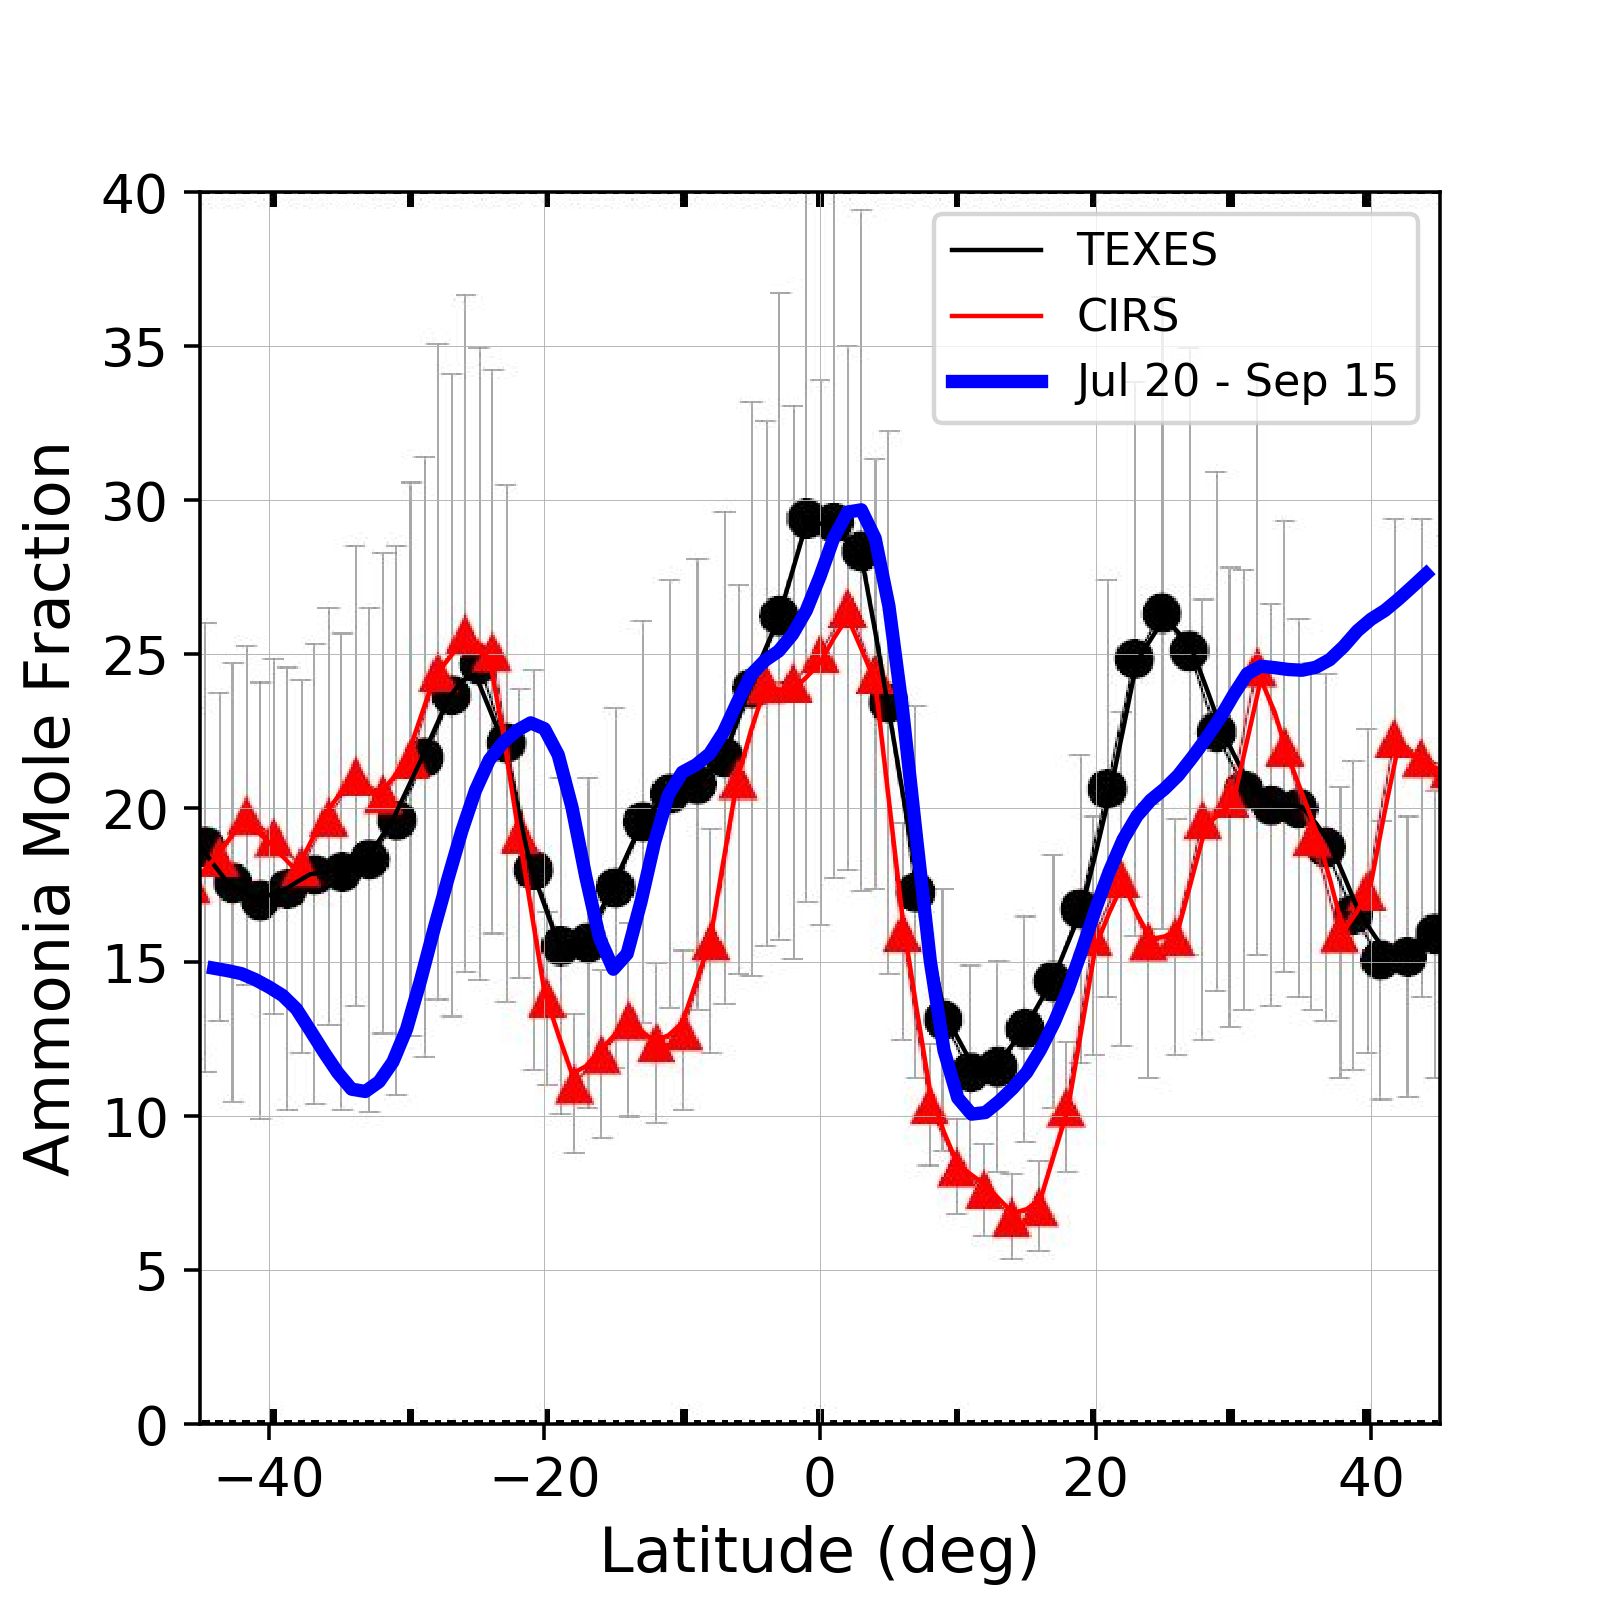
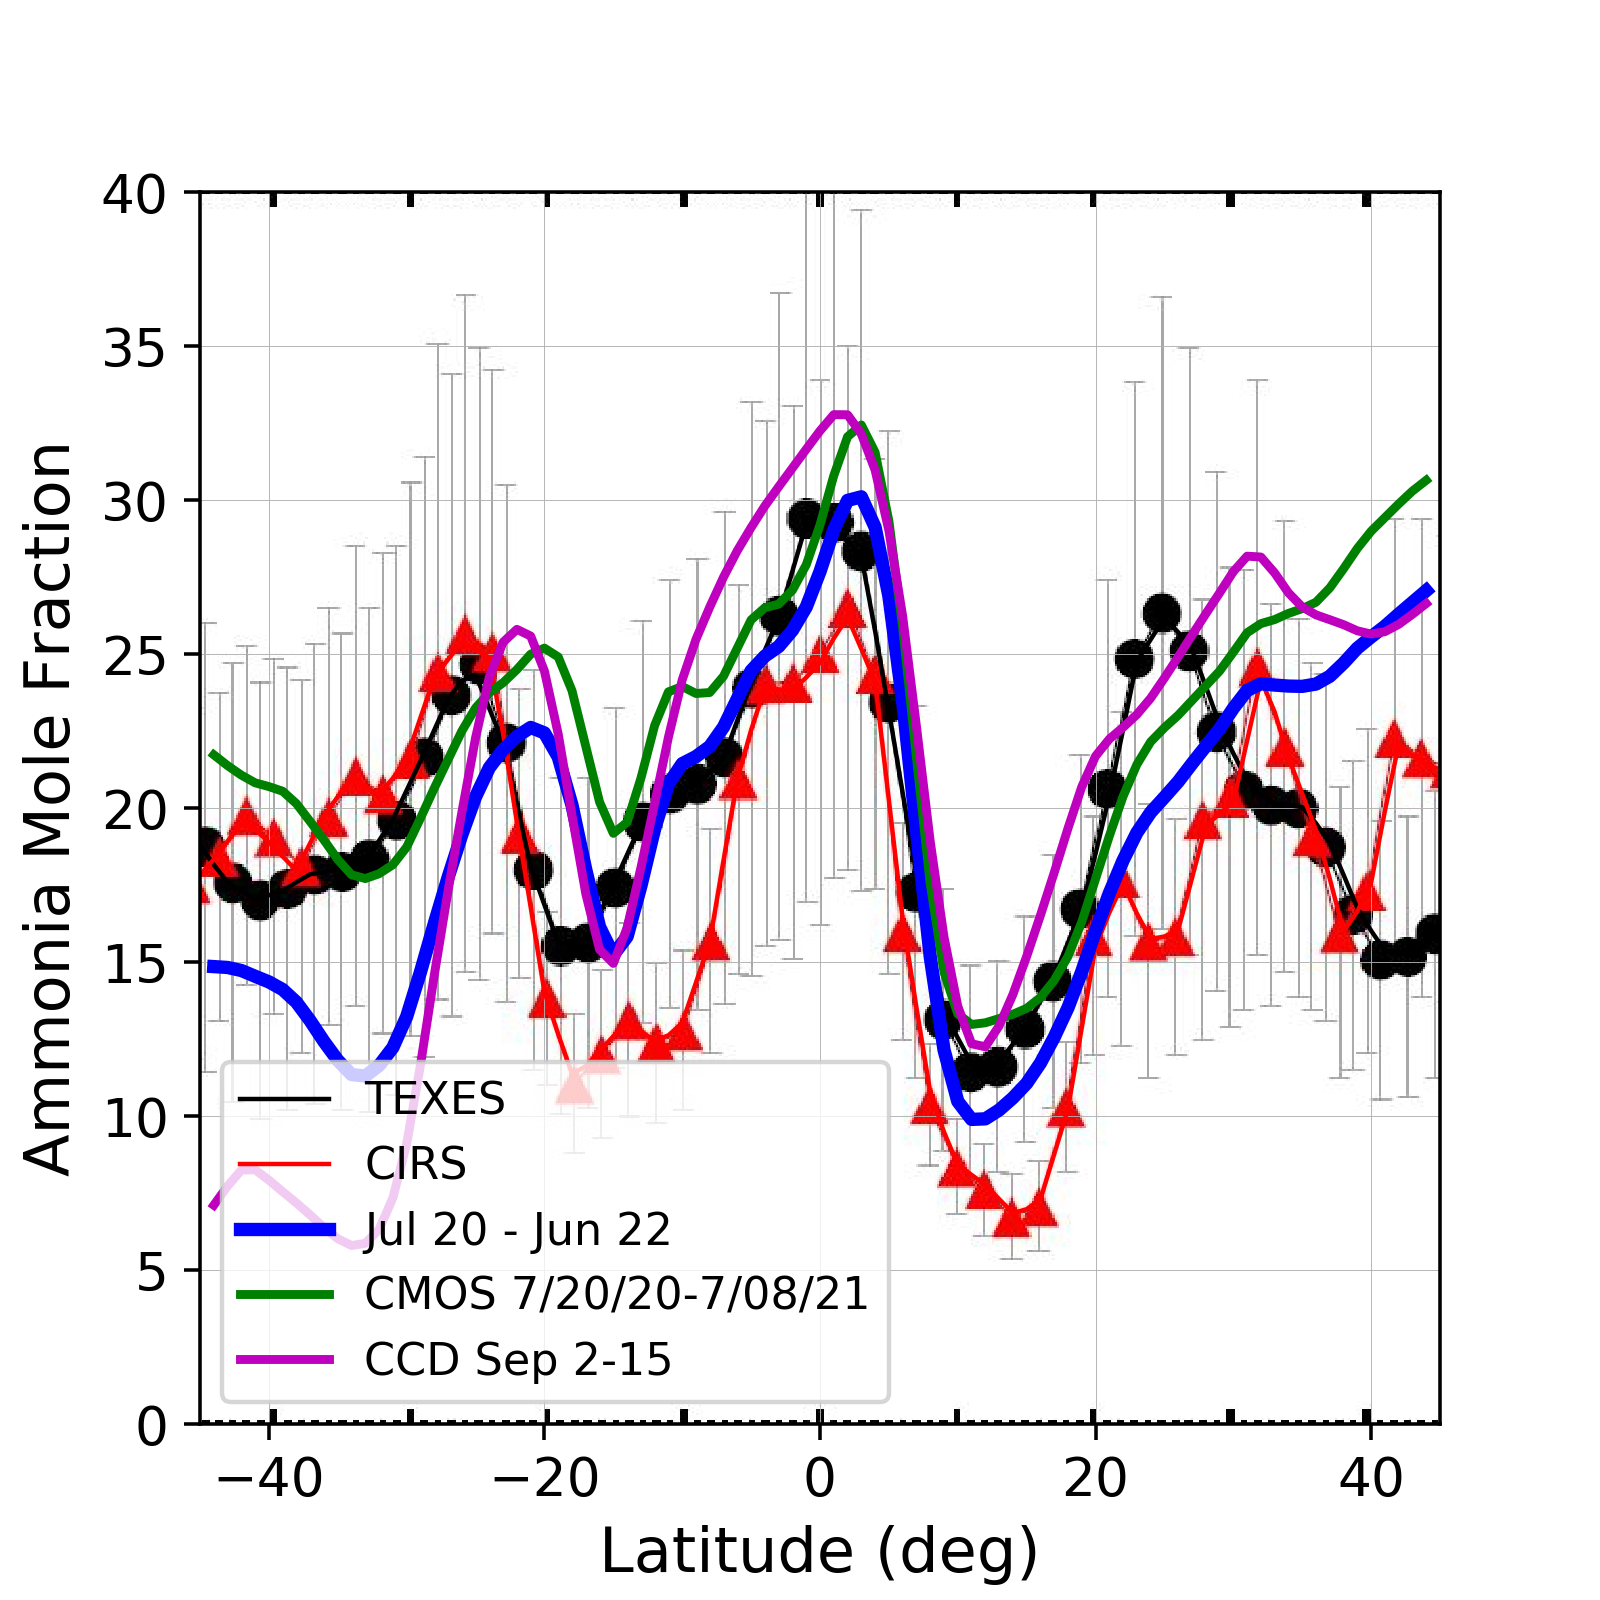
Multiple Updates
To AmmoniaMaps, Profiles, and Profile comparison

diff --git a/AmmoniaMaps.py b/AmmoniaMaps.py
@@ -14,7 +14,7 @@ HISTORY:    This code evolved from PlanetMapTest.py committed on 2/21/2019 at
 
 """
 
-def AmmoniaMaps(coords='map'):
+def AmmoniaMaps(coords='map',cont=True,DateSelection='All'):
     import sys
     drive='f:'
     sys.path.append(drive+'\\Astronomy\Python Play')
@@ -37,16 +37,21 @@ def AmmoniaMaps(coords='map'):
     drive="f:"
     path="/Astronomy/Projects/Planets/Jupiter/Imaging Data/Mapping/"
     
-    Dates=["20200720UT","20200729UT","20200730UT","20200731UT","20200902UT",
-           "20200903UT","20200904UT","20200913UT","20200914UT","20200915UT",
-           "20200924UTa","20200924UTb","20200925UT",
-           "20201007UTa","20201007UTb","20201008UT","20201009UT","20210622UT"]
-    #Dates=["20201009UT","20210622UT"]
+    if DateSelection=='All':
+        Dates=["20200720UT","20200729UT","20200730UT","20200731UT",
+               "20200902UT","20200903UT","20200904UT",
+               "20200913UT","20200914UT","20200915UT",
+               "20200924UTa","20200924UTb","20200925UT",
+               "20201007UTa","20201007UTb","20201008UT","20201009UT",
+               "20210622UT","20210708UT"]#,"20210708UTw"]
+    else:
+        Dates=DateSelection
+    #Dates=["20201009UT","20210622UT","20210708UT","20210708UTw"]
     
     Camera=["CMOS","CMOS","CMOS","CMOS",
-            "CCD","CCD","CCD","CCD","CCD","CCD","CCD",
             "CCD","CCD","CCD","CCD","CCD","CCD",
-            "CMOS"]
+            "CCD","CCD","CCD","CCD","CCD","CCD","CCD",
+            "CMOS","CMOS","CMOS"]
     
     SessionIDs={'20200720UT':['Jupiter-20200720UT-RGB',
                            'Jupiter-20200720UT-RGBmono',
@@ -150,7 +155,19 @@ def AmmoniaMaps(coords='map'):
                            'Jupiter-20210622UT-ClrSlp',
                            'Jupiter-20210622UT-NH3Abs656',
                            'Jupiter-20210622UT-889CH4',
-                           'Jupiter-20210622UT-380NUV']}
+                           'Jupiter-20210622UT-380NUV'],
+             '20210708UT':['Jupiter-20210708UT-RGB',
+                           'Jupiter-20210708UT-RGBmono',
+                           'Jupiter-20210708UT-ClrSlp',
+                           'Jupiter-20210708UT-NH3AbsAvg',
+                           'Jupiter-20210708UT-889CH4',
+                           'Jupiter-20210708UT-380NUV'],
+             '20210708UTw':['Jupiter-20210708UT-RGBw',
+                           'Jupiter-20210708UT-RGBmonow',
+                           'Jupiter-20210708UT-ClrSlpw',
+                           'Jupiter-20210708UT-NH3AbsAvgw',
+                           'Jupiter-20210708UT-889CH4w',
+                           'Jupiter-20210708UT-380NUVw']}
     
     PlotTypes=["a) RGB","b) Reflectivity","c) Continuum Slope",
                "d) NH3","e) 889nm","f) 380nm"]
@@ -240,8 +257,10 @@ def AmmoniaMaps(coords='map'):
                 #if iSession >1:
                     #pl.contour(test_patch,origin='upper', transform=ccrs.PlateCarree(), extent=test_extent,
                     #           colors='white', alpha=0.5,levels=np.linspace(25000,65000, 4))
-                pl.contour(NH3_conv,origin='upper', transform=ccrs.PlateCarree(), extent=testNH3_extent,
-                           colors='white', alpha=0.2,levels=[28000.0,36000.0],linewidth=[0.1,0.1])
+                if cont==True:
+                    pl.contour(NH3_conv,origin='upper', transform=ccrs.PlateCarree(), extent=testNH3_extent,
+                               colors=['w','k'], alpha=0.5,levels=[28000.0,36000.0],linewidths=[0.5,0.5],
+                               linestyles='solid')
             elif coords=='meridian':
                 pl.imshow(test_patch, clrtbl,origin='upper', extent=[-45.,45.,-45.,45.])
             if coords=="20200729":

diff --git a/ProfileComparison.py b/ProfileComparison.py
@@ -55,9 +55,12 @@ filenames=['TEXES-CIRS-blk-TEXES.txt',
            #'Profile of 20201009UTJupiter-NH3-ALL-Data.csv',
            #'Profile of 20201009UTJupiter-NH3-CMOS-Data.csv',
            #'Profile of 20201009UTJupiter-NH3-CCD-Data.csv']
-           'Profile of 20210622UTJupiter-NH3-ALL-Data.csv',
-           'Profile of 20210622UTJupiter-NH3-CMOS-Data.csv',
-           'Profile of 20210622UTJupiter-NH3-CCD-Data.csv']
+           #'Profile of 20210622UTJupiter-NH3-ALL-Data.csv',
+           #'Profile of 20210622UTJupiter-NH3-CMOS-Data.csv',
+           #'Profile of 20210622UTJupiter-NH3-CCD-Data.csv',
+           'Profile of 20210708UTJupiter-NH3-ALL-Data.csv',
+           'Profile of 20210708UTJupiter-NH3-CMOS-Data.csv',
+           'Profile of 20210708UTJupiter-NH3-CCD-Data.csv']
 
 bkgimg = mpimg.imread(ref_path+'TEXES-mirrored.JPG')
 #### SET UP CUMULATIVE CANVAS AND PLOT
@@ -127,9 +130,9 @@ pl.xlabel("Latitude (deg)",fontsize=14)
 pl.plot(TEXESGrid[:,0],TEXESGrid[:,1],color='k',label='TEXES',linewidth=1)
 pl.plot(CIRSGrid[:,0],CIRSGrid[:,1],color='r',label='CIRS',linewidth=1)
 #pl.plot(ALLGrid[:,0],ALLGrid[:,1]*0.7+7,color='b',label='Jul 20 - Sep 15',linewidth=3)
-pl.plot(ALLGrid[:,0],ALLGrid[:,1]*0.7+5,color='b',label='Jul 20 - Sep 15',linewidth=3)
-#pl.plot(CMOSGrid[:,0],CMOSGrid[:,1]*0.7+7,color='g',label='Jul 20-31',linewidth=2)
-#pl.plot(CCDGrid[:,0],CCDGrid[:,1]*0.65+5,color='m',label='Sep 2-15',linewidth=2)
+pl.plot(ALLGrid[:,0],ALLGrid[:,1]*0.7+5,color='b',label='Jul 20 - Jun 22',linewidth=3)
+pl.plot(CMOSGrid[:,0],CMOSGrid[:,1]*0.7+7,color='g',label='CMOS 7/20/20-7/08/21',linewidth=2)
+pl.plot(CCDGrid[:,0],CCDGrid[:,1]*0.65+5,color='m',label='CCD Sep 2-15',linewidth=2)
 #pl.title(date)
 pl.legend()
 #AX.plot(latgrid,AvgSignal,color='r',label='NH3/HIA')

diff --git a/Photometry.py b/Photometry.py
@@ -97,9 +97,9 @@ observations={'20200902UT':{'mIDs':['1_Io','2_Europa'],
                           'moons':[[615.799,614.875],[864.000,611.821]],
                           'JIDs':['0_Jupiter'],
                           'Jupiter':[[1098.101,607.210]]}}
-dates=['20200902UT','20200903UT','20200904UT','20200913UT','20200914UT']#,
-       #'20200915UT','20200924UT','20200925UT','20201007UT','20201008UT',
-       #'20201009UT']
+dates=['20200902UT','20200903UT','20200904UT','20200913UT','20200914UT',
+       '20200915UT','20200924UT','20200925UT','20201007UT','20201008UT',
+       '20201009UT']
 Names=['0_Jupiter','1_Io','2_Europa','3_Ganymede','4_Callisto',
        'Moons Ratio','Moons StdP','95% Conf','Trans647','NH3 Abs','Trans Conf']
 datetimearray=np.empty([len(dates)],dtype=datetime)
@@ -275,3 +275,5 @@ for i in range(0,6):
 
 print XX
 ascii.write(XX,pathout+'Transmission.csv',format='csv',overwrite=True,delimiter=',')
+print pathout
+pl.savefig(pathout+"Jupiter-Photometry.png",dpi=300)

diff --git a/ComputeNetRateJupiter.py b/ComputeNetRateJupiter.py
@@ -42,17 +42,15 @@ def ComputeNetRateJupiter(scidata,header,IDs,positions,radii):
     Filter=Meta.FilterParameters(header['FILTER'])
     WVCenter=Filter.CenterWV###Testing Area
     
-    pl.figure(figsize=(6,4), dpi=150, facecolor="white")
+    """pl.figure(figsize=(6,4), dpi=150, facecolor="white")
     pl.imshow(scidata)
-    #pl.xlim(0, 170)
-    #pl.ylim(130, 250)
     ap_patches = apertures.plot(color='white', lw=0.5,
                            label='Photometry aperture')
     ann_patches = annulus_apertures.plot(color='red', lw=0.5,
                                     label='Background annulus')
     #labels = (ap_patches[0], ann_patches[0])
     #pl.legend(font=10)
-    
+    """
     return rate,WVCenter,phot_table
 
 def uniform_lat_grid(Latitude,Signal,Fine=False):
